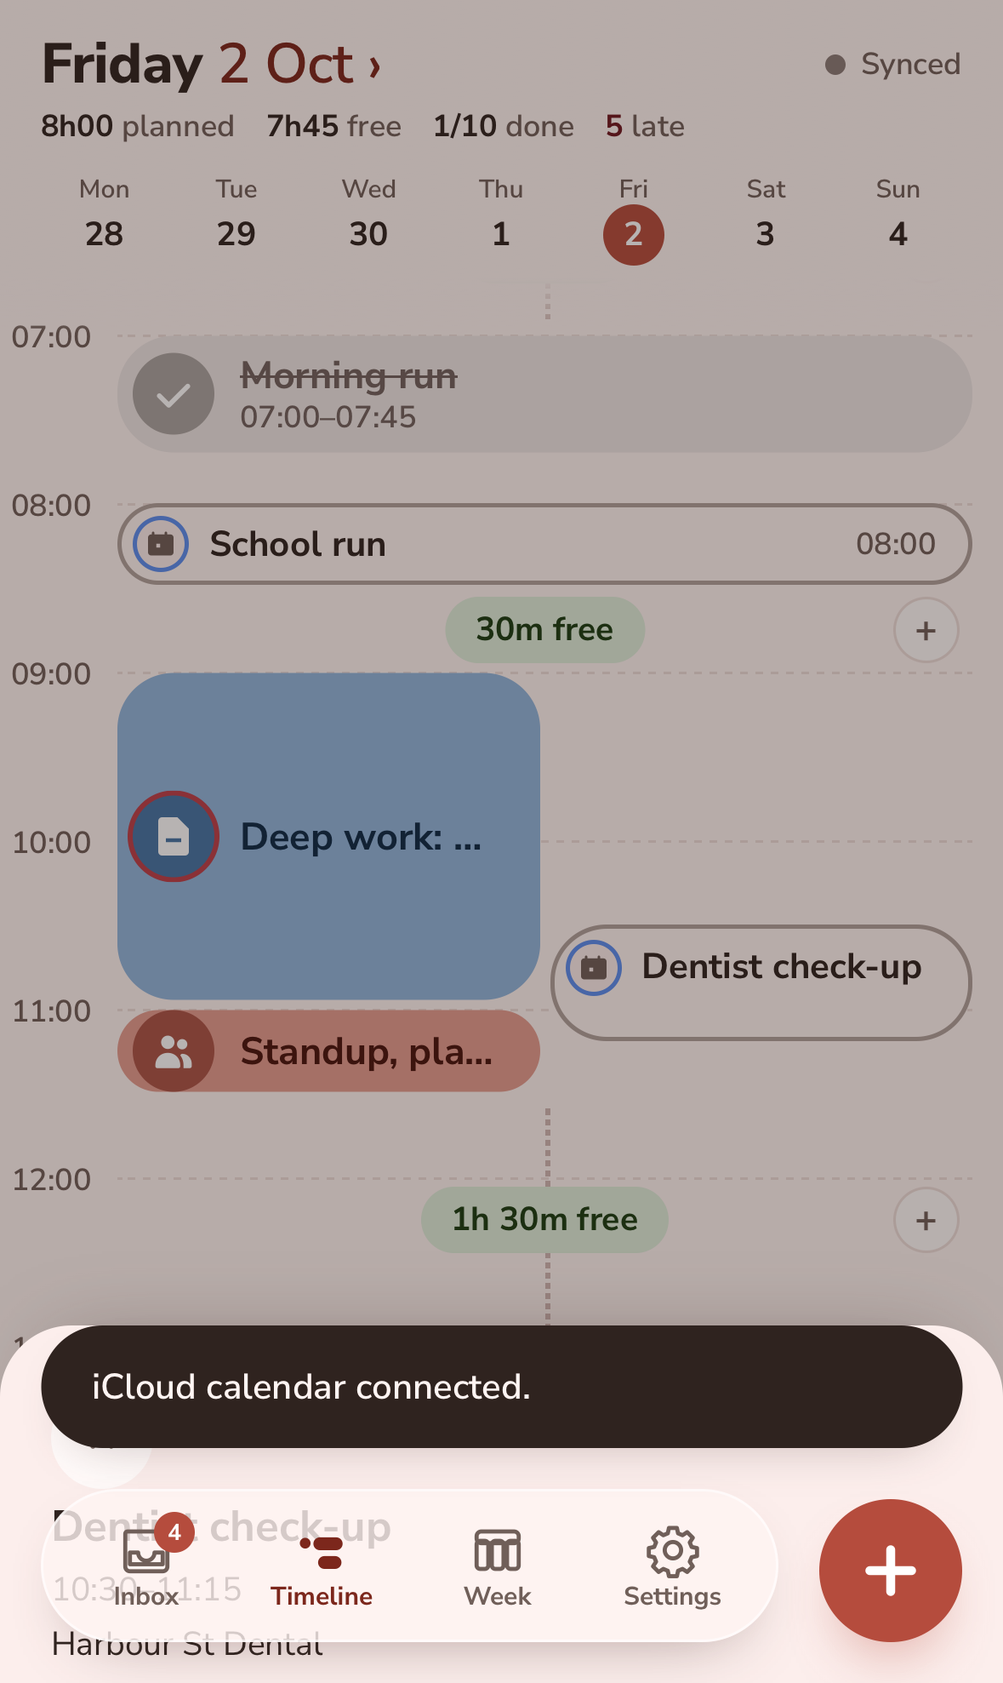
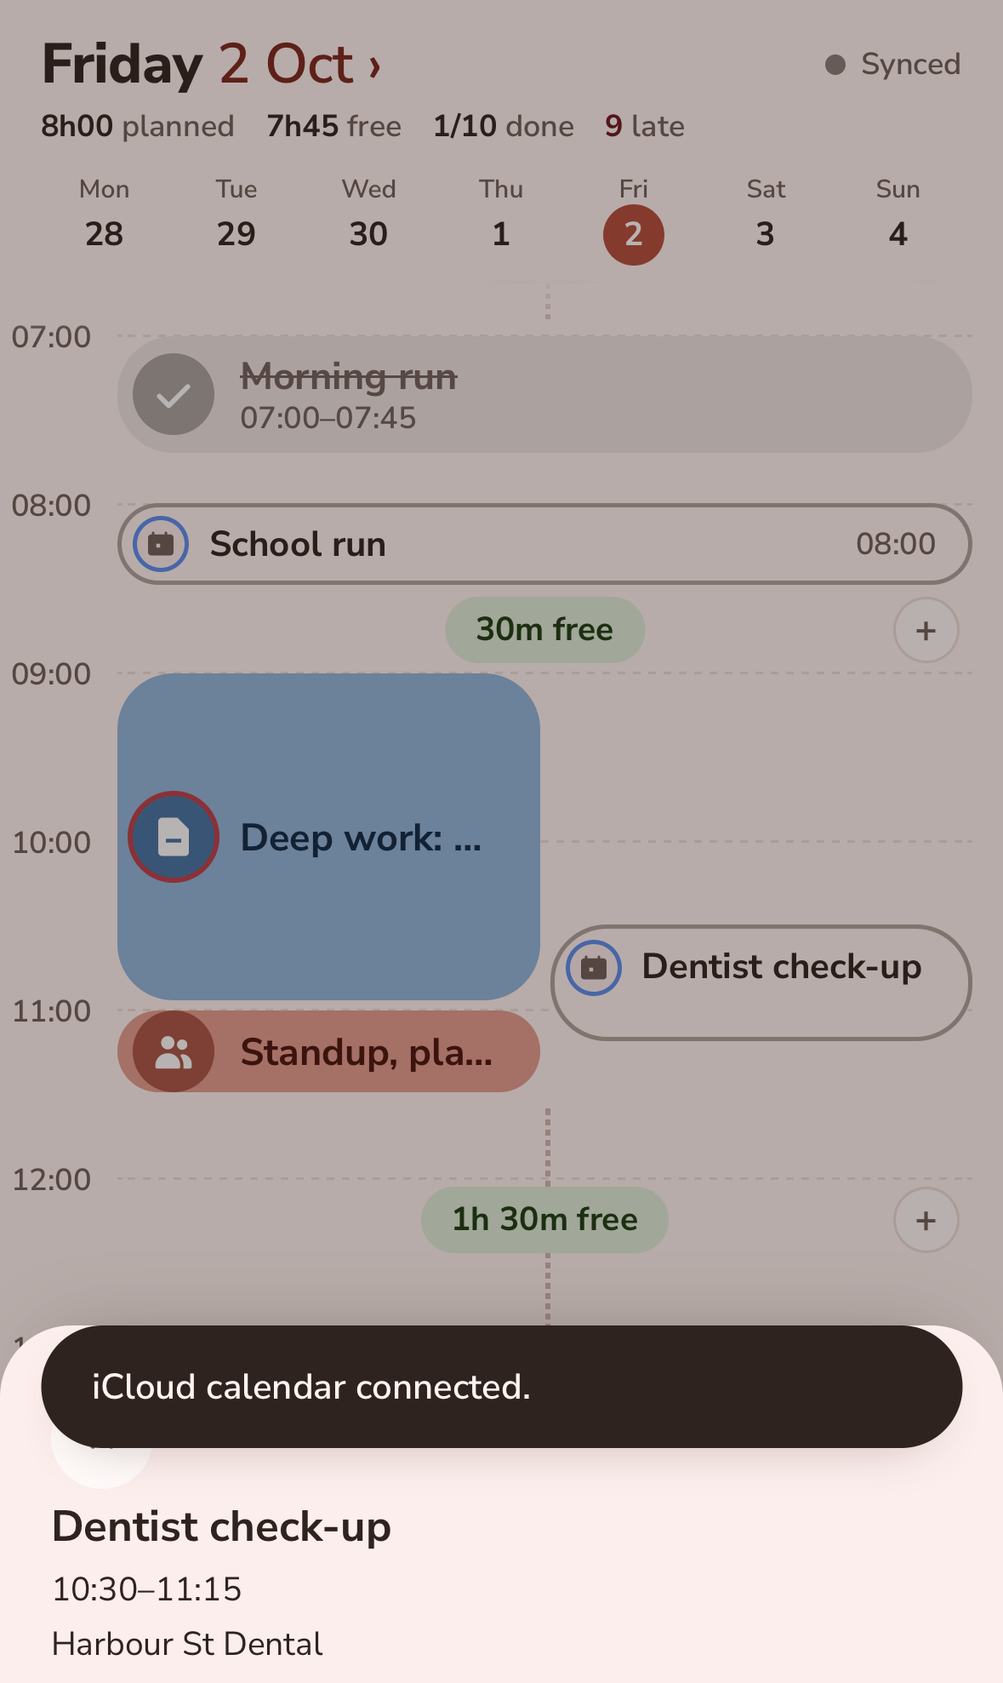
feat: slice 14 — Eye LITE review: event sheet above the tab bar, last legends → h3 (P1/P2 → #29–#37)

Changed region(s): [[0.0611, 0.8948, 0.7023, 0.9874], [0.7939, 0.8639, 0.9771, 0.9874], [0.2748, 0.4937, 0.3053, 0.5245]]

diff --git a/tests/snagtrain.spec.ts b/tests/snagtrain.spec.ts
@@ -387,4 +387,42 @@ test.describe('snag train 2026-10', () => {
     await pill.scrollIntoViewIfNeeded()
     await page.screenshot({ path: `docs/evidence/snag-train-2026-10-slice-13-running-pill-${info.project.name}.png` })
   })
+  // === slice 14 — Eye LITE P0s (docs/evidence/snag-train-2026-10-slice-14-design-critique.md) ===
+  test('ST-P0-1 the iPhone event sheet sits above the floating tab bar, not trapped under it', async ({ page, context }, info) => {
+    test.skip(info.project.name !== 'iphone-15', 'the bottom sheet is mobile-only')
+    const setView = (v: string) => page.evaluate((x) => (window as any).__optimo.ui.getState().set({ view: x, mobileTab: 'board' }), v)
+    await openApp(page, context, { seed: seedDay })
+    await setView('settings')
+    const form = page.getByTestId('calendar-connect')
+    await form.getByLabel('Apple ID').fill(FAKE_USER)
+    await form.getByLabel('App-specific password').fill(FAKE_PASSWORD)
+    await form.getByRole('button', { name: 'Connect iCloud' }).click()
+    await expect(page.getByTestId('calendar-account')).toBeVisible()
+    await setView('day')
+    const ev = page.getByTestId('timeline').getByTestId('event').filter({ hasText: 'Dentist check-up' })
+    await ev.scrollIntoViewIfNeeded()
+    await ev.getByRole('button', { name: /Dentist check-up/ }).click()
+    await expect(page.getByTestId('event-details')).toBeVisible()
+    const onTop = await page.evaluate(() => {
+      const r = document.querySelector('.tabbar')!.getBoundingClientRect()
+      const hit = document.elementFromPoint(r.left + r.width / 2, r.top + r.height / 2)
+      return !!hit?.closest('.sheet-wrap')
+    })
+    expect(onTop).toBe(true)
+    await page.getByTestId('event-details').getByRole('button', { name: 'Close' }).click()
+    await expect(page.getByTestId('event-details')).toHaveCount(0)
+  })
+
+  test('ST-P0-2 no settings group uses a native legend; Reminders + Calendars labels sit inside their cards', async ({ page, context }) => {
+    await openApp(page, context)
+    await page.evaluate(() => (window as any).__optimo.ui.getState().set({ view: 'settings', mobileTab: 'board' }))
+    await expect(page.locator('.settings legend')).toHaveCount(0)
+    for (const name of ['Reminders', 'Calendars']) {
+      const group = page.getByRole('group', { name })
+      await expect(group).toBeVisible()
+      const card = (await group.boundingBox())!
+      const label = (await group.locator(':scope > h3').boundingBox())!
+      expect(label.y).toBeGreaterThanOrEqual(card.y + 8)
+    }
+  })
 })

diff --git a/src/timeline/EventBlock.tsx b/src/timeline/EventBlock.tsx
@@ -1,4 +1,5 @@
 import { memo, useEffect, useState } from 'react'
+import { createPortal } from 'react-dom'
 import { Icon } from '../icons/Icon'
 import { fmtClock } from '../lib/time'
 import { useIsMobile } from '../lib/useMedia'
@@ -63,7 +64,9 @@ export const EventBlock = memo(function EventBlock({ item, col, cols, hourPx, cl
           <EventDetails title={title} time={time} location={e.location} calendarName={calName} />
         </div>
       )}
-      {open && mobile && (
+      {/* portalled to the .app root: inside .evt (z 25) the fixed sheet was trapped below the tab bar + FAB (z 30);
+          the root (not <body>) keeps the .is-mobile sheet styles */}
+      {open && mobile && createPortal(
         <div className="sheet-wrap" role="presentation" onMouseDown={(ev) => ev.target === ev.currentTarget && setOpen(false)}>
           <div className="sheet evt-sheet" role="dialog" aria-modal="true" aria-label={title} data-testid="event-details">
             <i className="grabber" aria-hidden="true" />
@@ -75,7 +78,8 @@ export const EventBlock = memo(function EventBlock({ item, col, cols, hourPx, cl
             </header>
             <EventDetails title={title} time={time} location={e.location} calendarName={calName} />
           </div>
-        </div>
+        </div>,
+        document.querySelector('.app') ?? document.body,
       )}
     </div>
   )

diff --git a/tests/inbox.spec.ts b/tests/inbox.spec.ts
@@ -57,6 +57,10 @@ test.describe('inbox & quick-add', () => {
 
   test('Place fills the earliest free slot that fits', async ({ page, context }) => {
     let inbox: ReturnType<typeof seedDay>['inbox']
+    // pin the clock mid-morning: run late in the evening, the earliest free slot falls on tomorrow's board
+    const now = new Date()
+    now.setHours(8, 0, 0, 0)
+    await page.clock.install({ time: now })
     const { errors } = await openApp(page, context, { seed: (s) => (inbox = seedDay(s).inbox) })
     await showInbox(page)
     await inboxRow(page, 'Read chapter 4').getByTestId('place').click()

diff --git a/src/push/PushSettings.tsx b/src/push/PushSettings.tsx
@@ -30,8 +30,8 @@ export function PushSettings() {
   }
   if (!state) return null
   return (
-    <fieldset className="set-row" data-testid="reminders" data-state={state}>
-      <legend>Reminders</legend>
+    <fieldset className="set-row" aria-labelledby="set-reminders-label" data-testid="reminders" data-state={state}>
+      <h3 id="set-reminders-label">Reminders</h3>
       <p className="muted">{COPY[state]}</p>
       <div className="set-actions">
         {state === 'off' && (

diff --git a/src/calendar/CalendarSettings.tsx b/src/calendar/CalendarSettings.tsx
@@ -51,8 +51,8 @@ export function CalendarSettings() {
   }
 
   return (
-    <fieldset className="set-row" data-testid="calendars">
-      <legend>Calendars</legend>
+    <fieldset className="set-row" aria-labelledby="set-calendars-label" data-testid="calendars">
+      <h3 id="set-calendars-label">Calendars</h3>
       {accounts?.map((a) => (
         <div key={a.id} className="cal-acc" data-testid="calendar-account">
           <div className="cal-acc-hd">

diff --git a/docs/evidence/snag-train-2026-10-slice-14-design-critique.md b/docs/evidence/snag-train-2026-10-slice-14-design-critique.md
@@ -1,0 +1,99 @@
+# Snag train 2026-10 · slice 14: Eye design critique (LITE)
+
+**Scope.** This reviews the snag-train evidence for slices 1–13 (`docs/evidence/snag-train-2026-10-slice-*.png`). Each slice closes one snag from `arc2-slice-7-design-critique.md` (A2-P1-1 … A2-P1-13 = schnubsy/optimo#15–#27). Each is judged against that snag's done-criteria and the ratified FINAL design (`docs/design/2026-09-27-final/spec.md`, `src/styles/tokens.css`). It is a critique only. No new directions are proposed, and no ratified decision is re-opened. Code was read where a capture alone was ambiguous: `EventBlock.tsx`, `PushSettings.tsx`, `CalendarSettings.tsx`, `app.css`, `sheet.css`, `brand.svg`, `make-icons.ts`, `build-press.mjs`.
+**Accepted as intended (not findings):** sharp text under the floating tab bar in the Playwright-WebKit iPhone captures. This was A2-P0-3, closed as a headless-compositing artefact, and the computed `backdrop-filter` is asserted in `review2.spec.ts`. Also accepted: data differences between fixtures (iCloud events appear only in the slice-4/5 fixture).
+**Severity:** 🔴 P0 = must fix this slice (a real defect or regression, or an originality breach) · 🟡 P1 / P2 = new GitHub issue labelled `snag` (do not fix here) · 🟢 = fine. Size S = under half a day, M = around a day.
+
+**Verdict.** Eleven of the thirteen snags are resolved as specified, and the visual language holds in both themes. Two fixes fall short in the arc's own evidence:
+- **#19:** the new mobile event sheet renders *beneath* the floating tab bar and FAB. It is trapped in the event's stacking context.
+- **#20:** the `<legend>` → `<h3>` fix missed the two Settings groups rendered by other components, Reminders and Calendars. "Reminders" still straddles its card edge in the slice-7 capture.
+
+Both are one-file fixes. The brand mark has left the red-squircle register, so no originality concern against Structured remains. Its chip still has a toggle-knob reading, which goes to a P1.
+
+---
+
+## Per-slice verdicts
+
+| Slice | Snag | Evidence | Verdict |
+|---|---|---|---|
+| 1 | #15 now pill vs hour numeral (A2-P1-1) | `slice-1-day-{desktop,iphone-15}.png`, `slice-10-day-desktop-dark.png` | 🟢 Resolved. At 15:04 the "15:00" numeral is gone and the flag reads cleanly. At 16:12 (12 min out) the numeral returns with no collision. |
+| 2 | #16 ui-week / ui-timeline misread (A2-P1-2) | `slice-2-icons.png`, `slice-2-tabbar-iphone-15.png` | 🟢 Resolved. ui-week is now a calendar frame with a solid header band joining three columns, so it no longer reads "000". ui-timeline is a chip dot plus two offset pills, echoing the block. The outline variants read at 22px. |
+| 3 | #17 activity glyph legibility (A2-P1-3) | `slice-3-icons.png` | 🟢 Resolved. food-plate is now a plate with a cutlery counter-cut (no "IOI"). care-mirror is an oval on a stand, clearly distinct from errand-pin. family-heart-people is two figures. Residual: handshake (ST-P2-3). |
+| 4 | #18 iCloud chip glyph + ring (A2-P1-4) | `slice-4-timeline-{desktop,iphone-15}.png` | 🟢 Resolved. New `ui-calendar` glyph (frame with a date-cell cut). Ring = `--evt-color` with a `--line-strong` fallback (`app.css:414`). The blue in the capture is the fixture calendar's own colour, which is allowed. |
+| 5 | #19 event details on iPhone (A2-P1-5) | `slice-5-event-sheet-iphone-15.png` | 🔴 **Not resolved: ST-P0-1.** The sheet and scrim exist, but the tab bar and FAB paint over the sheet. The scrim does not dim them. "Dentist check-up · 10:30–11:15 · Harbour St Dental" is overprinted by Inbox / Timeline, and the close button is unreachable. |
+| 6 | #20 Settings group labels straddle the card (A2-P1-6) | `slice-6-settings-iphone-15.png`, `slice-7-settings-bottom-iphone-15.png` | 🔴 **Partly resolved: ST-P0-2.** Theme / Day starts / Organise / Data now sit inside their cards. "Reminders" still sits on the card's top edge, and so will "Calendars" when present. |
+| 7 | #21 Settings bottom scroll pad (A2-P1-7) | `slice-7-settings-bottom-iphone-15.png` | 🟢 Resolved. "build 39ea9d5" clears the floating bar with room to spare. `.page` now scrolls. |
+| 8 | #22 Week edges (A2-P1-8) | `slice-8-week-{iphone-15,desktop}.png` | 🟢 Resolved. iPhone snaps cleanly to a whole day (Thu 1), with no sliver. The desktop body has its right pad. Residual: the header row is unpadded (ST-P2-4). |
+| 9 | #23 quick-add 44px targets (A2-P1-9) | `slice-9-quickadd-iphone-15.png` | 🟢 Resolved for the only interactive control, the glyph chip (about 43–44pt). The parse chips are non-interactive confirmations at about 28pt, still short of the §5.10 visual height (ST-P2-2). |
+| 10 | #24 evidence gap (A2-P1-10) | `slice-10-*` (9 captures) | 🟢 Resolved. Week / Inbox / Month / editor on iPhone in light and dark, plus desktop day dark, are all present. Two captures look raced (ST-P1-3), and the inbox capture surfaced ST-P1-1. |
+| 11 | #25 launcher card font + dark (A2-P1-11) | `slice-11-launcher-card-*-{light,dark}.png` | 🟢 Resolved. The dark variant uses the Meadow dark canvas / surface / accent, and the heading stack is `ui-rounded, "SF Pro Rounded", …` at 800. Note 1: headless engines fall back to the grotesk, so the rounded face needs an on-device check. Note 2: these captures predate slice 12 and still show the **retired** mark (see the brand section). |
+| 12 | #26 brand mark originality (A2-P1-12) | `slice-12-brand-mark.png`, `src/icons/brand.svg`, `public/icons/*` | 🟢 Originality resolved, but the chip identity is not fully landed (ST-P1-2). See the dedicated section. |
+| 13 | #27 elapsed sweep trailing edge (A2-P1-13) | `slice-13-running-pill-{desktop,iphone-15}.png` | 🟢 Resolved. The sweep keeps the pill's rounded start and ends in a flat vertical edge at elapsed % (14:30 of 14:00–15:30 = ⅓, measured). It reads as progress, not a nested block. Residual: the now line through the title (ST-P2-1). |
+
+---
+
+## 🔴 P0: fix this slice
+
+| ID | Finding | Evidence | Fix | Size |
+|---|---|---|---|---|
+| **ST-P0-1** | **The mobile event-details sheet renders under the floating tab bar and FAB.** `.sheet-wrap` (fixed, z 40) is rendered *inside* `.evt`, which is `position: absolute; z-index: 25` (`app.css:408–409`). That creates a stacking context, so the sheet's z-index only competes inside it. At root level the whole thing sits at 25, below `.tabbar` / `.fab` (30, `app.css:345,357`) and above `.hdr` (20), which is why the header dims and the bar does not. The details text is overprinted, and the bar intercepts taps meant for the sheet. #19's done-criteria (a dismissible sheet that isn't covered) fails. | `snag-train-2026-10-slice-5-event-sheet-iphone-15.png` | `src/timeline/EventBlock.tsx`: `import { createPortal } from 'react-dom'` and wrap the mobile branch, `{open && mobile && createPortal(<div className="sheet-wrap" …>…</div>, document.body)}`. React synthetic events still bubble to `.evt`'s `stopPropagation`, so tap-through is unchanged. Add a Playwright check (iPhone 15): with the sheet open, `document.elementFromPoint(centre of .tabbar)` must be inside `.sheet-wrap`. Re-shoot `slice-5-event-sheet-iphone-15.png`. | S |
+| **ST-P0-2** | **The "Reminders" (and "Calendars") group labels still straddle the card edge on iPhone.** Slice 6 converted the groups in `Settings.tsx` to `<h3>` + `aria-labelledby`. The Reminders and Calendars fieldsets are rendered by `PushSettings.tsx:34` and `CalendarSettings.tsx:55`, and both still use `<legend>`. WebKit places that over the border box (the reason the slice-6 fix exists). #20's done-criteria fails in the arc's own capture. | `snag-train-2026-10-slice-7-settings-bottom-iphone-15.png` ("Reminders" sits on the card's top edge) | `src/push/PushSettings.tsx`: `<fieldset className="set-row" aria-labelledby="set-reminders-label" …>` + `<h3 id="set-reminders-label">Reminders</h3>` (drop the `<legend>`). `src/calendar/CalendarSettings.tsx`: `aria-labelledby="set-calendars-label"` + `<h3 id="set-calendars-label">Calendars</h3>`. The CSS at `app.css:302` already styles `.settings h3`. Extend the #20 test to assert there is no `legend` under `.settings`, and that every `.set-row > h3` top is ≥ its card's top + 8px on iPhone 15. | S |
+
+## 🟡 P1 / P2: new snags (GitHub issues, label `snag`)
+
+| ID | Finding | Evidence | Fix | Size |
+|---|---|---|---|---|
+| **ST-P1-1** | Inbox (iPhone): the rail footer hint ("Drag onto the board, or **Place**: … Drag a block here to unschedule.") sits under the floating tab bar. Its copy is also desktop-only: mobile uses swipe-right = Place (spec §5.9). | `slice-10-inbox-iphone-15-{light,dark}.png` | `app.css`: `.is-mobile .backlog .ft { display: none; }`. Mobile Place is the row's pill plus swipe, so nothing is lost. | S |
+| **ST-P1-2** | Brand mark: the chip still reads as a toggle knob. It is a white disc, larger than the pill's height, sitting at the end of a coral track. Its outer edge also vanishes on the blush ground (white on `#fff4f2` ≈ 1.07:1), so small sizes show a "bitten" capsule with a floating dot. | `slice-12-brand-mark.png`, `public/icons/maskable-512.png`, `apple-touch-icon.png` | `src/icons/brand.svg`: move the chip *inside* the top pill, the way the product's block does it. Use a darker coral chip disc (`#8f3a2e`, r = 3.2, inset 1.5 from the pill's left end, fully within the pill height) with a single white glyph counter-cut, e.g. a 2-unit tick. Drop the white disc. Leave a 1.5-unit gap between the two pills (currently they touch at y = 20). Keep the blush ground and the sage dot. Re-run `scripts/make-icons.ts` and `npm run build:press`. | S |
+| **ST-P1-3** | Evidence race: Month (light) shows no category dots on Fri 2, while Month (dark) shows 4 dots + "+6" on the same data. The editor's Category row is empty in both themes, though §5.11 calls for 8 category chips. Either the captures fire before `useCategories()` / the month live query resolve, or the row really flashes empty on open (40px layout shift). | `slice-10-month-iphone-15-light.png` vs `-dark.png`; `slice-10-editor-iphone-15-{light,dark}.png` | Capture spec: wait for `[data-testid=sheet-category] button` and `.mday.today .dots i` before each shot. If the flash is real, pass Planner's already-resolved `cats` into `TaskSheet` instead of a fresh `useCategories()` (`src/editor/TaskSheet.tsx:119`). | S |
+| **ST-P2-1** | The now line (z 6) strikes through the running pill's title when now crosses the text row ("Write the migration plan" at 14:30). | `slice-13-running-pill-iphone-15.png`, `-desktop.png` | `app.css`: `.pill .title, .pill .meta { text-shadow: 0 0 2px var(--pill-bg), 0 0 2px var(--pill-bg); }` so the line breaks around glyphs. Or stop the line at the pill edges when a running pill spans it, since the flat sweep edge already marks now inside the pill. | S |
+| **ST-P2-2** | Quick-add parse-preview chips are about 28pt tall. Spec §5.10 says 44px. They are non-interactive, so this is visual only. The bottom chip row also sat on the viewport edge in the capture (possibly mid `sheet-up` animation). | `slice-9-quickadd-iphone-15.png` | `app.css`: `.qa-sheet .parse > span { min-height: 44px; display: inline-flex; align-items: center; }`. Or amend spec §5.10 to 32px for non-interactive chips. Re-shoot after `animationend`. | S |
+| **ST-P2-3** | `meeting-handshake` (redrawn) reads as a bow tie or sunglasses at 13/18px: two lobes and a band, with nothing hand-like. | `slice-3-icons.png` | `src/icons/set.ts`: tilt the clasp 20° and replace the band with one diagonal finger counter-cut across the join (§6.1 one counter-cut). Re-run `scripts/icon-sheet.ts`. | S |
+| **ST-P2-4** | Week (desktop): the body has its new right pad but the day-header row doesn't, so "Sun 4 · 16h00 free" runs to about 10px from the window edge, past the grid. | `slice-8-week-desktop.png` | `app.css`: `.is-desktop .whead { padding-right: var(--sp-4); }` | S |
+| **ST-P2-5** | Month (iPhone): the "Oct 2026" title starts at the 8pt month padding while the header above uses the 16pt gutter. The ‹ › buttons are surface on blush with no edge and almost disappear in light. | `slice-10-month-iphone-15-light.png` | `app.css`: `.is-mobile .mhead { padding-inline: var(--sp-2); }` (8 + 8 = 16pt) and `.mhead .nav { box-shadow: inset 0 0 0 1px var(--line); }` | S |
+| **ST-P2-6** | Toasts (z 60) sit on top of open bottom sheets and cover their close control ("iCloud calendar connected." over the event sheet's ×). | `slice-5-event-sheet-iphone-15.png` | `app.css`: `.toast-wrap { z-index: 35; }` (above the bar at 30, under sheets at 40). Toasts raised *by* a sheet action fire after it closes, per the Undo pattern. | S |
+
+## 🟢 Fine / praise
+
+- **ST-G-1 Pill system intact across all 13 slices.** In light: pastel fills, same-hue ink titles, dusty chips with white glyphs. In dark: L 0.40 pills, bright chips with dark glyphs, the inset ring. No regressions from the train.
+- **ST-G-2 Elapsed tone-sweep now matches spec §1 exactly.** It has a flat trailing edge and an accurate width. Together with the now flag, it is the clearest "you are here" in the app.
+- **ST-G-3 Chrome glyphs finally read.** Calendar-frame Week, block-echo Timeline, and the new `ui-calendar` stop the "pause / III" confusion everywhere (tab bar, event chip, icon sheet).
+- **ST-G-4 iCloud events are unmistakably foreign.** Outlined pill, calendar chip, ring in the calendar's own colour with a `--line-strong` fallback. Nothing borrows a category hue.
+- **ST-G-5 Settings is now a proper grouped list** (§5.13). Labels sit inside the panel cards for Theme / Day bounds / Organise / Data, and the page scrolls clear of the floating bar.
+- **ST-G-6 Week on iPhone snaps a whole day** under the hour rail, with today's column in accent-tint and the "plan · free" headers intact.
+- **ST-G-7 Dark theme coverage.** Desktop day, week, inbox, month and editor all hold the Meadow dark palette: today ring, month dots with the done ring, and the coral FAB in dark with dark "+".
+- **ST-G-8 Launcher card** now speaks optimo: an 800 rounded-stack heading, coral em-dash accent, Meadow dark variant, quiet "Family Wing" footer.
+- **ST-G-9 Originality overall holds.** Pill-with-chip blocks, no vertical spine, no circular progress, tone-sweep running state, dusty-coral accent, own tab set, own glyphs, and a brand mark off the red squircle.
+
+---
+
+## Brand-mark originality (slice 12)
+
+**What shipped.** `src/icons/brand.svg` (= `public/favicon.svg`, rasterised to `public/icons/icon-192.png`, `icon-512.png`, `maskable-512.png`, `apple-touch-icon.png`):
+- full-bleed blush ground `#fff4f2`;
+- two stacked coral `#b54c3d` capsules, the top one 21×9 and the lower one 17×7 offset right, touching at y = 20;
+- a white disc (r 5.5) with a coral centre dot (r 2), sitting on the top capsule's left end;
+- a sage `#547f4b` dot top-right.
+
+`make-icons.ts` pads every variant on the same blush, so the OS mask edge never shows a coral ring.
+
+**Red/pink squircle register (vs Structured): resolved.** On the home screen the icon is now a pale blush tile with coral marks. It is not a saturated red/pink squircle with a white mark. The ground, figure and value structure are inverted from the old mark. There is no shared colour scheme, silhouette or motif with Structured's icon.
+
+**iOS toggle reading: weakened, not gone.** At 192–512px a white round knob at the end of a coral track still reads as a switch in the "off" position. The counter-cut dot makes it a ring knob, not a glyph bubble. At 32–60px the white disc dissolves into the blush (≈ 1.07:1), leaving a capsule with a bite. The mark also drifts from the product's own block language, where the chip is a *darker* disc *inside* the pill carrying a *white glyph*. This is an identity and legibility issue, not an originality breach: a generic UI-control resemblance, not another planner's property. It is filed as **ST-P1-2**, with the exact redraw.
+
+**Close-out action (not a snag).** The launcher card inlines `brand.svg` at build (`build-press.mjs`), and the gauntlet builds it. But the slice-11 captures predate slice 12 and show the **retired** coral-squircle toggle mark. The published `press/optimo.html` carries it until republished. At arc close:
+1. Run `npm run release:press` through the normal press channel.
+2. Re-shoot `snag-train-2026-10-slice-11-launcher-card-*` so the evidence of record shows the new mark.
+3. Confirm the live launcher's favicon and card image match `src/icons/brand.svg`.
+
+**One-line verdict:** no originality concern remains against Structured. The red-squircle register is gone. A faint toggle-knob reading persists in the chip and goes to ST-P1-2, which is not a P0.
+
+---
+
+## Resolution (Code, slice 14)
+
+| ID | Outcome | Guard |
+|---|---|---|
+| ST-P0-1 | Fixed — the mobile event sheet is portalled (`createPortal`) to the `.app` root, so it is no longer trapped inside `.evt`'s z-25 stacking context under the tab bar + FAB (z 30). The `.app` root rather than `<body>` keeps the `.is-mobile` sheet styles (grabber, bottom anchoring). Slice-5 capture re-shot. | `tests/snagtrain.spec.ts` ST-P0-1 — `elementFromPoint(centre of .tabbar)` lands inside `.sheet-wrap`; the Close button is reachable and closes it. |
+| ST-P0-2 | Fixed — `PushSettings.tsx` + `CalendarSettings.tsx` use `<h3 id>` + `aria-labelledby` like the rest of Settings; no `<legend>` left under `.settings`. Slice-6/7 captures re-shot. | ST-P0-2 — zero `.settings legend`; the Reminders/Calendars groups keep their accessible names; each h3 top ≥ card top + 8px. |
+| ST-P1-1…ST-P2-6 | Filed as `snag` issues schnubsy/optimo#29 (ST-P1-1) … #37 (ST-P2-6), in table order — not fixed in this slice. | — |
